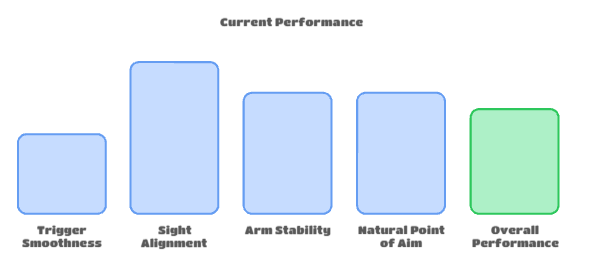
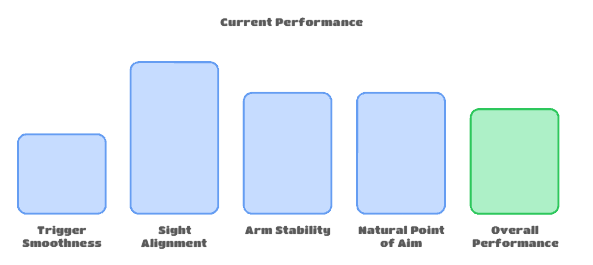
nld

diff --git a/articles/base/non-lineardevelopment.html b/articles/base/non-lineardevelopment.html
@@ -1,0 +1,92 @@
+<!doctype html>
+<html lang="en">
+<head>
+  <meta charset="utf-8">
+  <meta name="viewport" content="width=1280">
+  <title>Non-Linear Skill Development— Trigger Signal</title>
+  <link rel="preconnect" href="https://fonts.googleapis.com">
+  <link href="https://fonts.googleapis.com/css2?family=Barlow+Condensed:wght@700;800&family=IBM+Plex+Mono:wght@400;600&display=swap" rel="stylesheet">
+  <link rel="stylesheet" href="../../css/base.css">
+  <link rel="stylesheet" href="../../css/layout.css">
+  <link rel="stylesheet" href="../../css/broadcast.css">
+</head>
+<body data-category="base">
+  <div id="header-include"></div>
+
+  <div class="page-shell">
+    <main class="content article-page">
+      <span class="chyron"><span class="chyron-tag neon-blue">BASE</span><span class="chyron-body">Training</span></span>
+      <h1>Non-Linear Skill Development</h1>
+      <div class="article-author">May Chan // June 6, 2026</div>
+      <p class="lead">A concept I use to help conceptualize the complex nature of skill development.</p>
+      <hr class="major">
+
+      <section>
+        <p>Training effectively is about maximizing the gains from the time and energy you put into training. Having ways to conceptualize how your training is affecting your performance is very useful.
+</p>
+<p>
+Here is a concept which I use often in my training, and which I use to help explain the process of isolating specific skills in order to improve your overall performance. The main goal of this concept is to take a holistic view of training, understanding the impact that isolation has on performance while you are focusing on skill development, and how that isolated skill then gets re-integrated into your overall skillset.
+</p>
+      </section>
+
+      <section>
+        <h2>The Non-Linear Skill Development Concept</h2>
+        <p>Imagine that your shooting technique is broken up into a number of skills, and that each skill is at a certain level. All of those skills add up to your current overall performance at the sport.
+</p>
+<img src="../../assets/images/levels-1.png" alt="Current Performance">
+
+<p>When you intentionally focus on improving a specific skill, what happens? Your performance at that skill should increase, because you’re dedicating concentration and effort into improving it.
+</p>
+<p>
+However, if you are putting a large amount of effort into improving that specific skill, your overall performance will actually decrease during training. Why? Because by diverting your attention to work on that specific skill you will naturally take away from other aspects of your technique.
+</p>
+<img src="../../assets/images/levels-2.png" alt="Training Performance">
+<p>
+However, your goal when training isn’t to always perform your best, it’s to improve your performance, so the temporary hit to your overall performance is more than acceptable.
+</p>
+<p>
+In order to train effectively, you must understand this give-and-take nature of skill development. Expecting your results to improve when you’re focusing on improving is not only unrealistic, but also will distract you from truly focusing on your training. You must give yourself <a href="../mind/permissiontofail.html">permission to fail</a>.
+</p>
+<p>
+Drilling specific techniques in isolation is a staple of basically every sport, but shooting is uniquely different in that rather than having multiple skills that are used at various times in the sport (Basketball for example has dribbling, shooting, running, and passing), shooting essentially has multiple skills that all come together in a single, continuous action. In addition, every shot taken is quantifiable by its score, which has a significant impact on how you judge and approach your training that doesn't happen nearly as explicitly in other sports.</p>
+<p>
+When you’re focusing your training on a specific skill, you must accept the inevitable drop in performance (ie. score). The alternative is, you try to keep your overall performance high while also making small enough adjustments to your technique to improve little by little. This ‘alternate’ approach is very common. It feeds into human loss-averse nature, but it is not an efficient use of time and effort.
+</p>
+<p>
+The final stage of this concept is re-integration.
+</p>
+<p>
+After dedicating time and effort to that specific focus, this improved performance at that specific skill will be integrated at a subconscious level. When you stop focusing on that skill, your performance at the specific skill will naturally decrease, but the overall level will be higher than it was originally.
+</p>
+<img src="../../assets/images/levels-3.png" alt="Successful Re-Integration">
+<p>
+This re-integration can actually be quite tricky, because when you stop focusing specifically on that skill and you return to an overall-performance-based mindset, it’s very easy to fall into old habits and revert to the previous way you executed your skill. Take special care to reinforce your skill training by using your updated skill, and avoid the temptation to return to your previous comfort zone. Otherwise, you may have spent all that effort training the skill just to discard it at the end.
+</p>
+<p>
+If you find that you are struggling to integrate your training into your overall performance, this is a sign that you have not spent long enough, and you haven’t trained the skill to a sufficiently subconscious level. In this case, it’s best to postpone re-integration and continue to focus on isolation training for a little longer.
+</p>
+<p>
+
+With re-integration complete, the rest of your skills will remain roughly at the same level that they were before. With your attention now back to maximizing your overall performance, the main difference will be that you have improved the innate level of that specific skill. The aggregate sum of all your skills will result in a higher overall performance.
+</p>
+<p>
+Then it’s a matter of starting the process over again with another skill. Dedicated training in this manner will inevitably bring about constant, steady progress.
+</p>
+      </section>
+
+      <section>
+        <h2>Action</h2>
+        <p>End with a simple action or practice recommendation. Make it easy for the reader to apply the idea immediately.</p>
+      </section>
+      <a class="back-link" href="#" onclick="history.back(); return false;">← Back</a>
+    </main>
+  </div>
+
+  <div id="footer-include"></div>
+
+  <script src="../../js/main.js"></script>
+  <script src="../../js/header.js"></script>
+  <script src="../../js/chyron.js"></script>
+  <script src="../../js/footer.js"></script>
+</body>
+</html>

diff --git a/articles/gear/noblindertips.html b/articles/gear/noblindertips.html
@@ -55,7 +55,7 @@
     <hr class="minor">
         <section>
 
-        <p><b>Forcing cross-dominant eye sight alignment:</b> Hold up the sights, then close your left eye (or block it with your left). Align the sights with your right eye, then open or unblock your left eye so both eyes are open. You should see double, but the sights will still be lined up with your right eye.</p>
+        <p><b>Forcing cross-dominant eye sight alignment:</b> Hold up the sights, then close your left eye (or block it with your left hand). Align the sights with your right eye, then open or unblock your left eye so both eyes are open. You should see double, but the sights will still be lined up with your right eye.</p>
         <p>It's quite normal for your left eye to take over at this point, causing you to lose the sight alignment. That's okay, we're training the brain to use the non-dominant eye. Repeat until you can maintain sight alignment with your right eye long enough to take the shot.</p>
         <p>With cross-eye dominance you will always see double. Two sights and two targets. For myself, even after almost two years of shooting I still see double, though I've read online that people have switched which eye is dominant over time somehow.</p>
         <p>The beginning is probably the most frustrating part of the process, especially when the brain overrides the right eye, but I managed to get over that hurdle myself after just two or three days of practice.</p>

diff --git a/css/base.css b/css/base.css
@@ -4,6 +4,7 @@
   --ink: #111111;
   --neon-green: #AAFF00;
   --neon-blue: #00F0FF;
+  --dark-blue: #0073b6;
   --neon-pink: #FF00CC;
   --neon-purple: #B678FF;
   --neon-yellow: #FFF000;
@@ -55,8 +56,8 @@ p { font-family: var(--font-body); font-size: 15px; line-height: 1.75; color: va
 .lead { font-size: 15px; color: var(--muted); font-family: var(--font-body); }
 .article-author { display: inline-block; margin: 10px 0 22px; font-family: var(--font-display); font-size: 12px; color: var(--muted); letter-spacing: 0.18em; text-transform: uppercase; }
 
-a { color: var(--neon-pink); text-decoration: none; font-family: var(--font-display); font-weight: 700; }
-a:hover { text-decoration: underline; }
+a { color: var(--dark-blue); text-decoration: underline; font-weight: 500; }
+a:hover { font-weight:600; text-decoration: none; }
 
 .text-neon-blue,
 .text-neon-pink,
@@ -79,3 +80,11 @@ a:hover { text-decoration: underline; }
 section { margin-bottom: 16px; }
 
 table { border-radius:1px; margin:8px; padding:8px; border-color:#525252; border-width:1.5px; border-style:solid; width:100%; }
+/* Center images inside article pages */
+main.content.article-page img {
+  display: block;
+  margin-left: auto;
+  margin-right: auto;
+  max-width: 100%;
+  height: auto;
+}

diff --git a/base.html b/base.html
@@ -41,6 +41,14 @@
       <h2><a href="articles/base/smartgoals.html">An Introduction to Goal Setting</a> <a class="read-link" href="articles/base/smartgoals.html">READ →</a></h2>
       <p>Goal setting is a fundamental aspect of personal and athletic development and a critical component of achieving long-term success.</p>
     </article>
+
+    <hr class="minor">
+    
+    <article class="item">
+      <div class="meta">2026-06 · training</div>
+      <h2><a href="articles/base/non-lineardevelopment.html">Non-Linear Skill Development</a> <a class="read-link" href="articles/base/non-lineardevelopment.html">READ →</a></h2>
+      <p>Exploration of a concept to help conceptualize the different phases of focused skill development.</p>
+    </article>
     
   </main>
   </div>

diff --git a/index.html b/index.html
@@ -23,6 +23,7 @@
     <h1 class="hero-head">FIELD NOTES ON PRECISION SHOOTING</h1>
     <p class="hero-body">A collection of long-form coaching essays, technical references, and competition notes from a 10m air pistol competitor.</p>
     <p class="hero-body">Articles are sorted by category, select them using the links above.</p>
+    <p class="hero-body">Content Warning Disclaimer: There are a lot of words in here and very few pictures. TikTok brains beware.</p>
   </main>
   </div>
 
